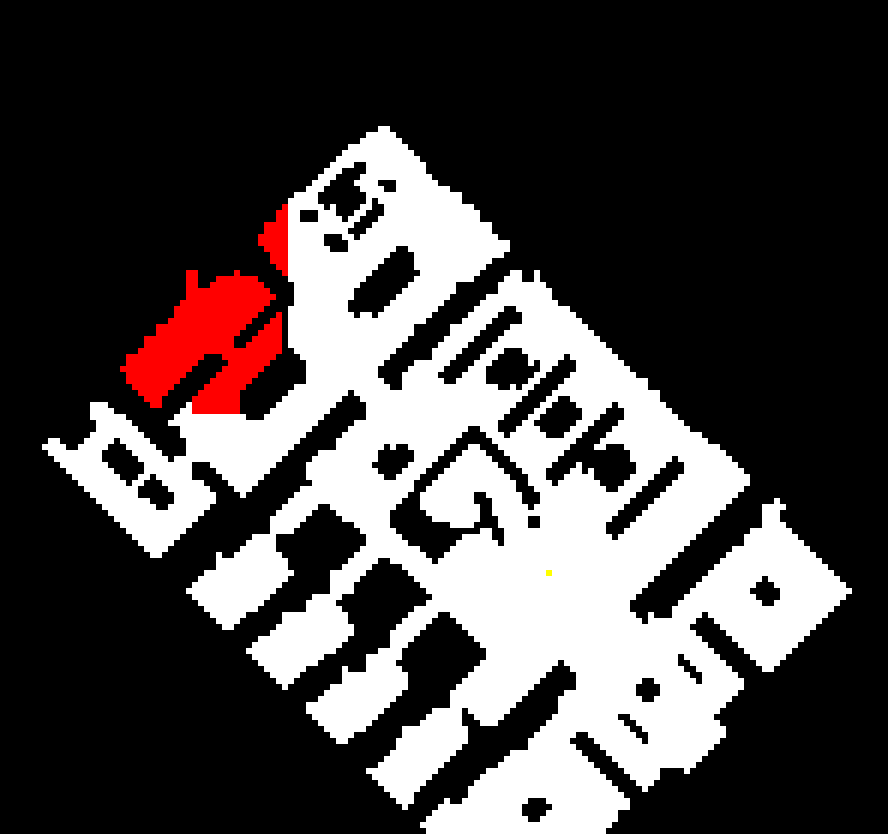
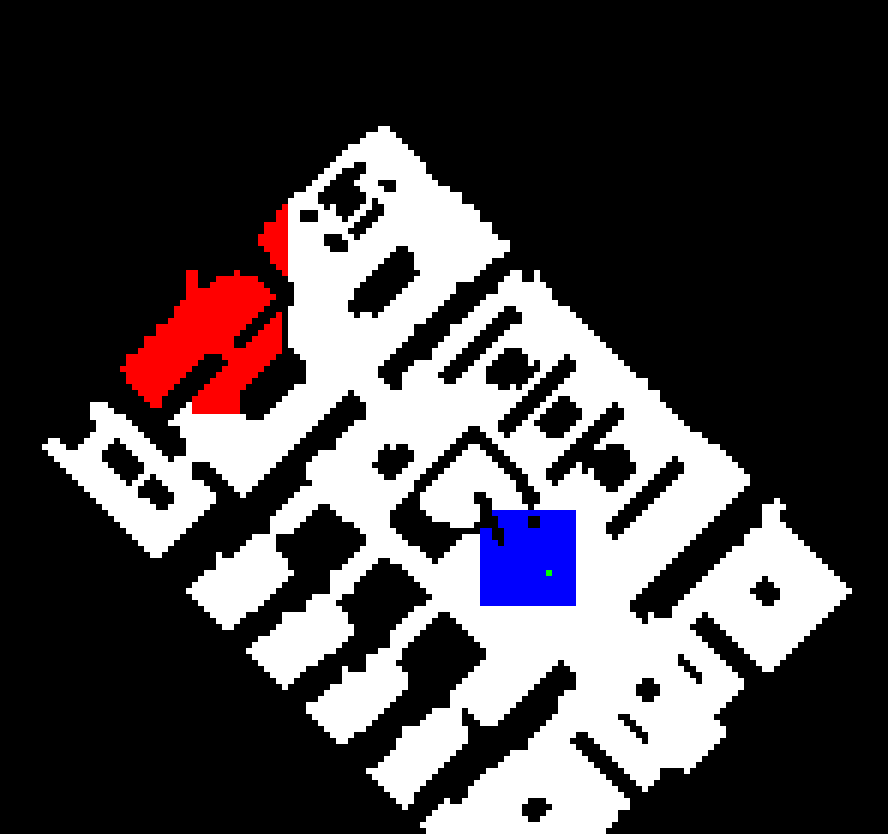
Coloured in goals that have issue - they are all the ones in the region of the start

Changed region(s): [[0.5169, 0.5923, 0.6689, 0.7482]]

diff --git a/src/VisualizeDBChanges.java b/src/VisualizeDBChanges.java
@@ -7,6 +7,7 @@ import map.GameMap;
 import search.*;
 
 import java.util.ArrayList;
+import java.util.Arrays;
 import java.util.HashMap;
 
 public class VisualizeDBChanges {
@@ -28,12 +29,7 @@ public class VisualizeDBChanges {
 
         // setting up walls
         ArrayList<SearchState> wallLocation = new ArrayList<>();
-        wallLocation.add(new SearchState(7003));
-        wallLocation.add(new SearchState(7151));
-        wallLocation.add(new SearchState(7299));
-        wallLocation.add(new SearchState(7447));
-        wallLocation.add(new SearchState(7595));
-        wallLocation.add(new SearchState(7743));
+        wallLocation.add(new SearchState(8941));
 
         // fix start
         int startId = 13411;
@@ -98,8 +94,10 @@ public class VisualizeDBChanges {
         System.out.println();
         System.out.println("This run took: " + timeTaken);
 
+        ArrayList<SearchState> weirdGoals = getWeirdGoals();
+
         // output result as image: colour start green, colour every goal with a changed path red, rest of map white
-        map.showChanges(DBA_STAR_DB_PATH + "AW012.map_DBA_ChangedGoals.png", goalsWithChangedPath, new SearchState(startId));
+        map.showChanges(DBA_STAR_DB_PATH + "AW012.map_DBA_ChangedGoals.png", goalsWithChangedPath, new SearchState(startId), weirdGoals);
 
         System.out.println();
         System.out.println("Goals with changed path: ");
@@ -211,5 +209,43 @@ public class VisualizeDBChanges {
 
     private static String getDBName(String wallStatus) {
         return DBA_STAR_DB_PATH + wallStatus + MAP_FILE_NAME + "_DBA-STAR_G" + GRID_SIZE + "_N" + NUM_NEIGHBOUR_LEVELS + "_C" + CUTOFF + ".dat";
+    }
+
+    // TODO: find fix for these goals
+    private static ArrayList<SearchState> getWeirdGoals() {
+        // goals where startGroupId == goalGroupId in findNearest() in SubgoalDynamicDB2
+        ArrayList<Integer> weirdGoalIds = new ArrayList<>(Arrays.asList(
+                11922, 11923, 11924, 11925, 11926, 11927, 11928, 11929, 11930, 11931,
+                11932, 11933, 11934, 11935, 12071, 12072, 12073, 12074, 12075, 12078,
+                12079, 12080, 12081, 12082, 12083, 12219, 12220, 12221, 12222, 12223,
+                12226, 12227, 12228, 12229, 12230, 12231, 12364, 12365, 12368, 12369,
+                12370, 12371, 12372, 12373, 12374, 12375, 12376, 12377, 12378, 12379,
+                12512, 12513, 12516, 12517, 12518, 12519, 12520, 12521, 12522, 12523,
+                12524, 12525, 12526, 12527, 12660, 12661, 12662, 12664, 12665, 12666,
+                12667, 12668, 12669, 12670, 12671, 12672, 12673, 12674, 12675, 12808,
+                12809, 12810, 12811, 12812, 12813, 12814, 12815, 12816, 12817, 12818,
+                12819, 12820, 12821, 12822, 12823, 12956, 12957, 12958, 12959, 12960,
+                12961, 12962, 12963, 12964, 12965, 12966, 12967, 12968, 12969, 12970,
+                12971, 13104, 13105, 13106, 13107, 13108, 13109, 13110, 13111, 13112,
+                13113, 13114, 13115, 13116, 13117, 13118, 13119, 13252, 13253, 13254,
+                13255, 13256, 13257, 13258, 13259, 13260, 13261, 13262, 13263, 13264,
+                13265, 13266, 13267, 13400, 13401, 13402, 13403, 13404, 13405, 13406,
+                13407, 13408, 13409, 13410, 13412, 13413, 13414, 13415, 13548, 13549,
+                13550, 13551, 13552, 13553, 13554, 13555, 13556, 13557, 13558, 13559,
+                13560, 13561, 13562, 13563, 13696, 13697, 13698, 13699, 13700, 13701,
+                13702, 13703, 13704, 13705, 13706, 13707, 13708, 13709, 13710, 13711,
+                13844, 13845, 13846, 13847, 13848, 13849, 13850, 13851, 13852, 13853,
+                13854, 13855, 13856, 13857, 13858, 13859, 13992, 13993, 13994, 13995,
+                13996, 13997, 13998, 13999, 14000, 14001, 14002, 14003, 14004, 14005,
+                14006, 14007, 14140, 14141, 14142, 14143, 14144, 14145, 14146, 14147,
+                14148, 14149, 14150, 14151, 14152, 14153, 14154, 14155
+        ));
+
+        ArrayList<SearchState> weirdGoals = new ArrayList<>();
+        for (Integer weirdGoalId: weirdGoalIds) {
+            weirdGoals.add(new SearchState(weirdGoalId));
+        }
+
+        return weirdGoals;
     }
 }
